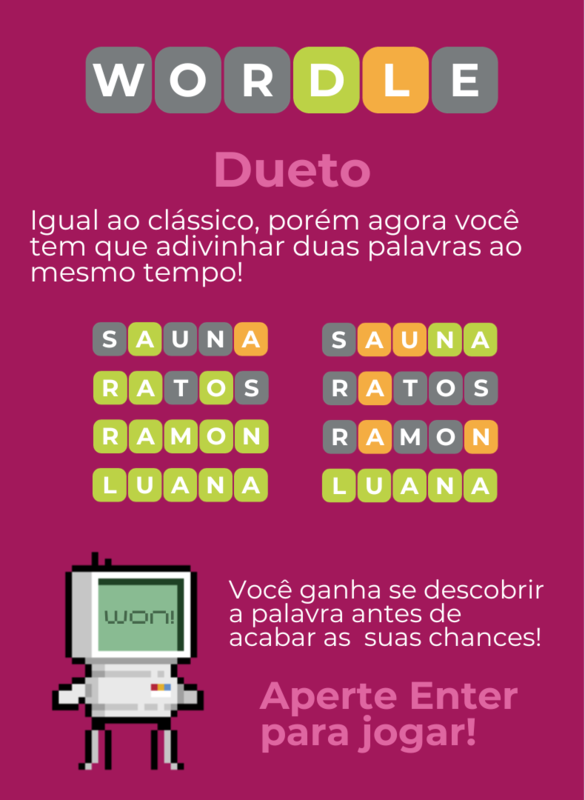
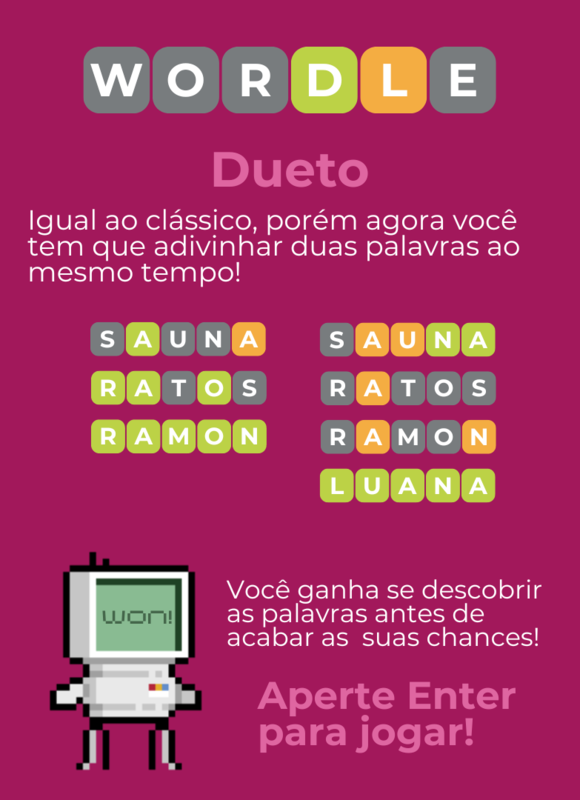
Loop trap solved

diff --git a/ncd_gamestation.py b/ncd_gamestation.py
@@ -46,7 +46,7 @@ font_normal = pygame.font.Font("font/Montserrat-Black.otf", 36)
 font_rules = pygame.font.Font("font/Montserrat-Black.otf", 20)
 
 # Função para desenhar botões
-def desenhar_botao(x, y, largura, altura, texto, acao=None):
+def desenhar_botao(x, y, largura, altura, texto):
     if texto == "Regras":
         pygame.draw.rect(screen, white, (x, y, largura, altura))
         texto_surface = font_rules.render(texto, True, purple)
@@ -69,42 +69,54 @@ def desenhar_botao(x, y, largura, altura, texto, acao=None):
     texto_retangulo = texto_surface.get_rect(center=(x + largura / 2, y + altura / 2))
     screen.blit(texto_surface, texto_retangulo)
 
-    # Verifica se o botão foi clicado
-    mouse_x, mouse_y = pygame.mouse.get_pos()
-    click, _, _ = pygame.mouse.get_pressed()
-
-    if x < mouse_x < x + largura and y < mouse_y < y + altura:
-        if click == 1 and acao:
-            acao()
-
 def executar_wordle_classico():
     os.system("python3 regras_wordle_classico.py")
+    os.system("python3 wordle.py")
 
 def executar_wordle_dueto():
     os.system("python3 regras_wordle_dueto.py")
+    os.system("python3 dueto.py")
 
 # Função para executar wordle2.py
 def executar_forca_classico():
-    os.system("python3 regras_wordle_classico.py")
-
+    print("ok")
 # Função para executar regras.py
 def executar_forca_dueto():
-    os.system("python3 regras_wordle_classico.py")
+    print("ok")
+
+desenhar_botao(65, 350, 250, 70, "Clássico")
+desenhar_botao(335, 350, 250, 70, "Dueto")
+desenhar_botao(65, 530, 250, 70, "Clássico")
+desenhar_botao(335, 530, 250, 70, "Multiplayer")
 
 # Loop principal
 while True:
-    # screen.fill(purple)
-
     # Desenha os botões
-    desenhar_botao(65, 350, 250, 70, "Clássico", executar_wordle_classico)
-    desenhar_botao(335, 350, 250, 70, "Dueto", executar_wordle_dueto)
-    desenhar_botao(65, 530, 250, 70, "Clássico", executar_wordle_classico)
-    desenhar_botao(335, 530, 250, 70, "Multiplayer", executar_forca_classico)
-    desenhar_botao(275, 670, 100, 50, "Regras", executar_forca_dueto)
 
     for event in pygame.event.get():
         if event.type == pygame.QUIT:
             pygame.quit()
             sys.exit()
+        if event.type == pygame.MOUSEBUTTONDOWN:
+                if event.button == 1:  # 1 representa o botão esquerdo do mouse
+                    mouse_x, mouse_y = pygame.mouse.get_pos()
+                    # classico wordle 
+                    if 65 < mouse_x < 65 + 250 and 350 < mouse_y < 350 + 70:
+                        executar_wordle_classico()
+                    # classico wordle 
+                    if 335 < mouse_x < 335 + 250 and 350 < mouse_y < 350 + 70:
+                        executar_wordle_dueto()
+                    # classico forca 
+                    if 65 < mouse_x < 65 + 250 and 530 < mouse_y < 530 + 70:
+                        executar_forca_classico()
+                    # classico forca 
+                    if 335 < mouse_x < 335 + 250 and 530 < mouse_y < 530 + 70:
+                        executar_forca_classico()
+
+    # desenhar_botao(65, 350, 250, 70, "Clássico", executar_wordle_classico)
+    # desenhar_botao(335, 350, 250, 70, "Dueto", executar_wordle_dueto)
+    # desenhar_botao(65, 530, 250, 70, "Clássico", executar_wordle_classico)
+    # desenhar_botao(335, 530, 250, 70, "Multiplayer", executar_forca_classico)
+    # desenhar_botao(275, 670, 100, 50, "Regras", executar_forca_dueto)
 
     pygame.display.flip()

diff --git a/regras_wordle_dueto.py b/regras_wordle_dueto.py
@@ -11,10 +11,12 @@ height = 800
 
 # Cria a janela
 screen = pygame.display.set_mode((width, height))
+icon = pygame.image.load("img/rules.png")
+icon = pygame.transform.scale_by(icon, 0.6)
 pygame.display.set_caption("Pygame Page")
 
 # Carrega o wallpaper
-wallpaper = pygame.image.load("img/regras_w_classico.png")
+wallpaper = pygame.image.load("img/regras_w_dueto.png")
 wallpaper = pygame.transform.scale(wallpaper, (width, height))
 
 # Define a fonte para o texto
@@ -30,7 +32,7 @@ while running:
         elif event.type == pygame.KEYDOWN:
             if event.key == pygame.K_RETURN:
                 # Executa o arquivo "wordle.py"
-                os.system("python3 dueto.py")
+                # os.system("python3 dueto.py")
                 pygame.quit()
                 sys.exit()
 

diff --git a/regras_wordle_classico.py b/regras_wordle_classico.py
@@ -11,6 +11,8 @@ height = 800
 
 # Cria a janela
 screen = pygame.display.set_mode((width, height))
+icon = pygame.image.load("img/rules.png")
+icon = pygame.transform.scale_by(icon, 0.6)
 pygame.display.set_caption("Pygame Page")
 
 # Carrega o wallpaper
@@ -30,7 +32,7 @@ while running:
         elif event.type == pygame.KEYDOWN:
             if event.key == pygame.K_RETURN:
                 # Executa o arquivo "wordle.py"
-                os.system("python3 wordle.py")
+                # os.system("python3 wordle.py")
                 pygame.quit()
                 sys.exit()
 

diff --git a/README.md b/README.md
@@ -41,8 +41,8 @@ Versão inicial, contendo apenas as seguintes funcionalidades:
 - [x] O jogo deve mostrar uma mensagem de vitória ou derrota quando o jogador adivinhar a palavra ou esgotar suas tentativas e o significado da palavra.
 
 ## Entrega Extra (E4)
-- [ ] O jogo deve ter uma versão de dueto, onde tenta-se adivinhar duas palavras simultaneamente.
-- [ ] O jogo deve ter uma plataforma de entrada dos modos.
+- [x] O jogo deve ter uma versão de dueto, onde tenta-se adivinhar duas palavras simultaneamente.
+- [x] O jogo deve ter uma plataforma de entrada dos modos.
 
 ## Como jogar
 O jogo é simples: você tem seis tentativas para adivinhar uma palavra de cinco letras. Cada vez que você insere uma palavra, o jogo fornece feedback sobre a posição e a presença das letras na palavra secreta.
